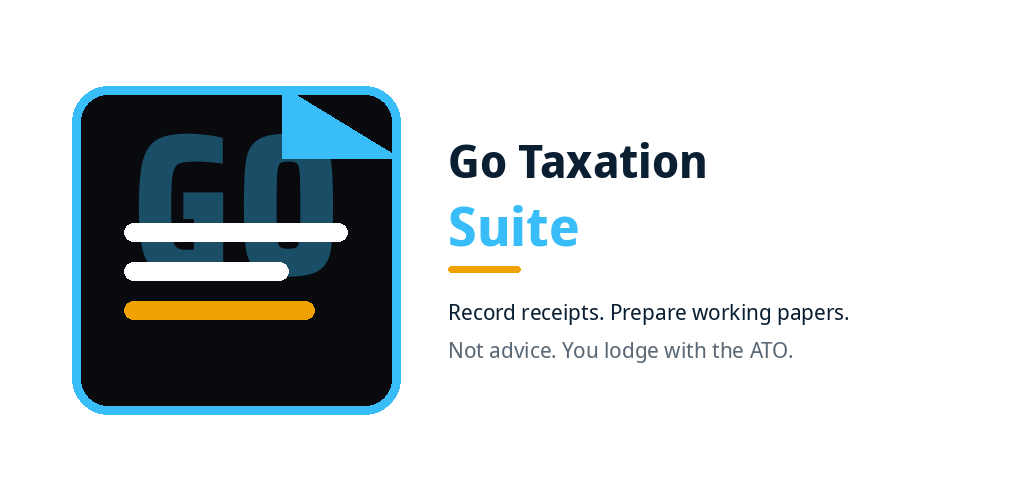
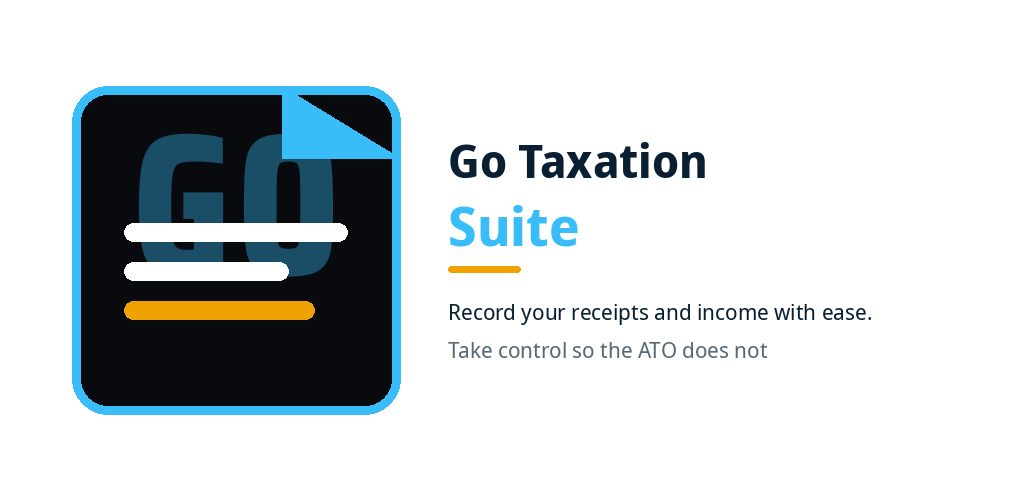
feat: update Play feature graphic tagline copy
Record your receipts and income with ease. Take control so the ATO does not

Changed region(s): [[0.4375, 0.6, 0.8438, 0.72]]

diff --git a/version.test.js b/version.test.js
@@ -29,10 +29,11 @@ describe("formatVersionLabel", () => {
     expect(formatVersionLabel(162)).toBe("Version 3.09");
     expect(formatVersionLabel(163)).toBe("Version 3.10");
     expect(formatVersionLabel(164)).toBe("Version 3.11");
+    expect(formatVersionLabel(165)).toBe("Version 3.12");
   });
 
-  it("maps the current PR constant (this PR is #164 → Version 3.11)", () => {
-    expect(HAULAGE_PR_NUMBER).toBe(164);
-    expect(formatVersionLabel(164)).toBe("Version 3.11");
+  it("maps the current PR constant (this PR is #165 → Version 3.12)", () => {
+    expect(HAULAGE_PR_NUMBER).toBe(165);
+    expect(formatVersionLabel(165)).toBe("Version 3.12");
   });
 });

diff --git a/store-listings.test.js b/store-listings.test.js
@@ -24,6 +24,12 @@ describe("Suite store listing assets", () => {
     });
   });
 
+  it("keeps the Play feature graphic tagline in the generator", () => {
+    const src = fs.readFileSync(path.join(STORE, "generate-icons.py"), "utf8");
+    expect(src).toMatch(/Record your receipts and income with ease\./);
+    expect(src).toMatch(/Take control so the ATO does not/);
+  });
+
   it("keeps camera + export-compliance keys on the iOS project", () => {
     const plist = fs.readFileSync(IOS_PLIST, "utf8");
     const additions = fs.readFileSync(IOS_ADDITIONS, "utf8");

diff --git a/lib/version.js b/lib/version.js
@@ -13,7 +13,7 @@
  *
  * Bump HAULAGE_PR_NUMBER when opening the next PR so the footer stays in sync.
  */
-const HAULAGE_PR_NUMBER = 164;
+const HAULAGE_PR_NUMBER = 165;
 
 /** Minors per major after 1.00 (inclusive .00 through .50). */
 const MINORS_PER_MAJOR = 51;

diff --git a/mobile-suite/store/generate-icons.py b/mobile-suite/store/generate-icons.py
@@ -213,8 +213,8 @@ def feature_graphic():
     draw.text((448, 128), "Go Taxation", fill=NAVY, font=title)
     draw.text((448, 188), "Suite", fill=SKY, font=suite_font)
     draw.rounded_rectangle((448, 266, 448 + 72, 272), radius=3, fill=AMBER)
-    draw.text((448, 296), "Record receipts. Prepare working papers.", fill=NAVY, font=tag)
-    draw.text((448, 334), "Not advice. You lodge with the ATO.", fill=(90, 104, 118, 255), font=tag)
+    draw.text((448, 296), "Record your receipts and income with ease.", fill=NAVY, font=tag)
+    draw.text((448, 334), "Take control so the ATO does not", fill=(90, 104, 118, 255), font=tag)
     return img
 
 
